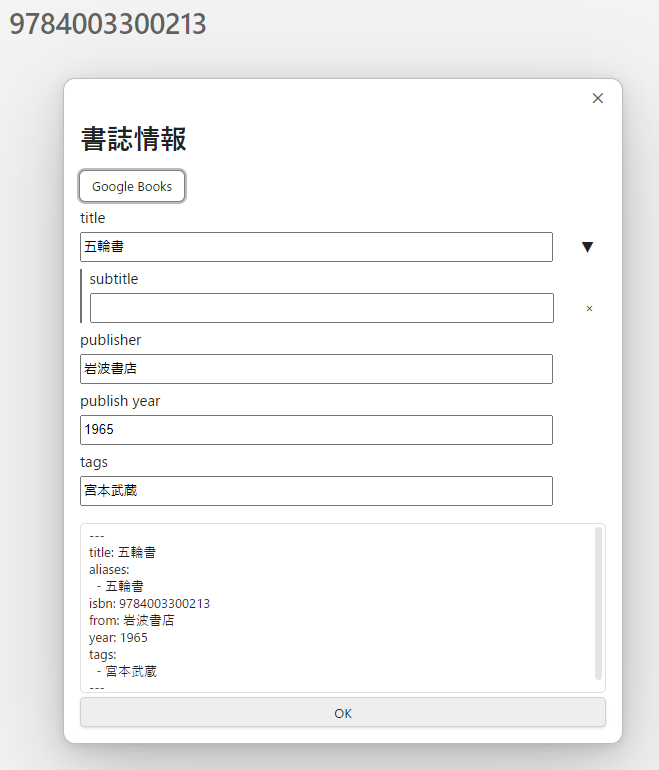
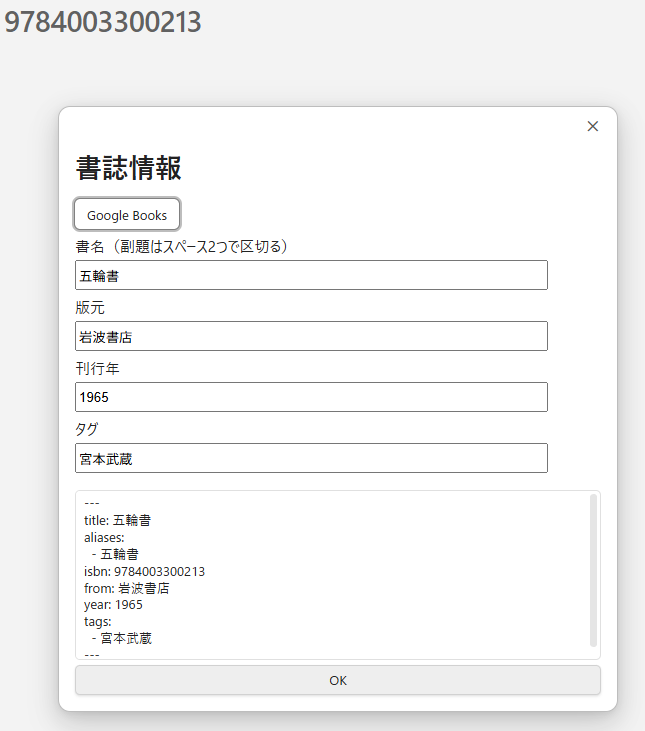
fix readme and style

diff --git a/styles.css b/styles.css
@@ -21,31 +21,6 @@
 	width: 100%;
 }
 
-#frontmatter-gen-modal .title {
-	position: relative;
-}
-#frontmatter-gen-modal .title button {
-	position: absolute;
-	right: 0;
-	box-shadow: none;
-	background: transparent;
-	bottom: 0;
-}
-
-#frontmatter-gen-modal .subtitle {
-	padding-left: 0.5em;
-	position: relative;
-	border-left: 2px solid var(--color-base-60);
-}
-
-#frontmatter-gen-modal .subtitle button {
-	position: absolute;
-	right: 0;
-	box-shadow: none;
-	background: transparent;
-	bottom: 0;
-}
-
 #frontmatter-gen-modal label {
 	display: block;
 	margin-top: 0.5em;
@@ -54,7 +29,7 @@
 #frontmatter-gen-modal label input {
 	margin: 4px 0;
 	display: block;
-	width: 90%;
+	width: 100%;
 }
 
 #frontmatter-gen-modal button.exec {

diff --git a/README.md b/README.md
@@ -14,8 +14,6 @@ ISBNで書誌情報を取得してObsidianに登録する。
 
 ![img](./images/img-moblie-toolbar.png)
 
-using [obsidian-emoji-shortcodes](https://github.com/phibr0/obsidian-emoji-shortcodes) .
-
 ## Install
 
 Run [install.ps1](install.ps1) with vault folder path as an argument.
